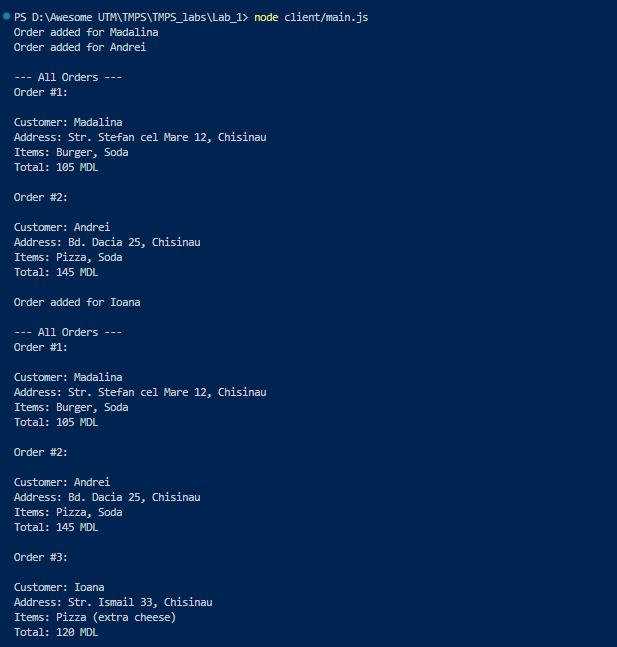
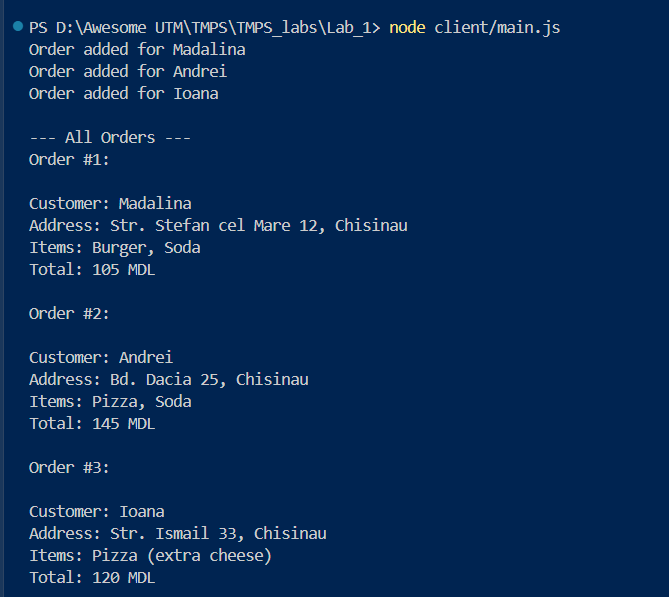
updated README.md and modules

Changed region(s): [[0.0, 0.0, 0.8314, 1.0]]

diff --git a/Lab_1/client/main.js b/Lab_1/client/main.js
@@ -2,15 +2,10 @@ import FoodFactory from "../factory/foodFactory.js";
 import OrderBuilder from "../builder/orderBuilder.js";
 import OrderManager from "../domain/orderManager.js";
 
-// Using Factory Method Pattern
-// Create food items without directly instantiating them with new.
-// This centralizes creation logic and makes it easier to extend.
 const burger = FoodFactory.createFood("burger");
 const soda = FoodFactory.createFood("soda");
 const pizza = FoodFactory.createFood("pizza");
 
-// Using Builder Pattern
-// Construct complex Order objects step by step in a readable, flexible way.
 const order1 = new OrderBuilder()
   .setCustomer("Madalina")
   .setAddress("Str. Stefan cel Mare 12, Chisinau")
@@ -25,15 +20,9 @@ const order2 = new OrderBuilder()
   .addItem(soda)
   .build();
 
-// Using Singleton Pattern
-// The same OrderManager instance is used across the app.
-// It stores and manages all orders globally.
 OrderManager.addOrder(order1);
 OrderManager.addOrder(order2);
-OrderManager.listOrders();
 
-// Using Prototype Pattern (optional demonstration)
-// Clone a predefined food item and modify it slightly
 const clonedPizza = pizza.clone();
 clonedPizza.name = "Pizza (extra cheese)";
 const customOrder = new OrderBuilder()

diff --git a/Lab_1/builder/orderBuilder.js b/Lab_1/builder/orderBuilder.js
@@ -1,4 +1,3 @@
-// The Order class represents a final, ready-to-deliver order object.
 class Order {
   constructor() {
     this.items = [];
@@ -20,10 +19,6 @@ Total: ${this.getTotal()} MDL
   }
 }
 
-// ✅ Builder Pattern:
-// The OrderBuilder class separates the construction of a complex object (Order)
-// from its representation. It lets us create different configurations of Orders
-// step-by-step, without needing a long constructor with many parameters.
 export default class OrderBuilder {
   constructor() {
     this.order = new Order();
@@ -31,7 +26,7 @@ export default class OrderBuilder {
 
   setCustomer(name) {
     this.order.customerName = name;
-    return this; // allows method chaining
+    return this;
   }
 
   setAddress(address) {
@@ -44,7 +39,6 @@ export default class OrderBuilder {
     return this;
   }
 
-  // Final step: returns the fully built Order object
   build() {
     return this.order;
   }

diff --git a/Lab_1/domain/orderManager.js b/Lab_1/domain/orderManager.js
@@ -1,16 +1,11 @@
-// Singleton Pattern:
-// The OrderManager class ensures only ONE instance exists throughout the app.
-// It manages all created orders globally.
 class OrderManager {
   constructor() {
-    // If an instance already exists, return it (Singleton enforcement)
     if (OrderManager.instance) {
       return OrderManager.instance;
     }
 
     this.orders = [];
 
-    // Store the single instance for future reference
     OrderManager.instance = this;
   }
 

diff --git a/Lab_1/models/foodItem.js b/Lab_1/models/foodItem.js
@@ -1,12 +1,9 @@
-// The FoodItem class represents a basic product in our system (a meal, drink, etc.)
 export default class FoodItem {
   constructor(name, price) {
     this.name = name;
     this.price = price;
   }
-
-  // Prototype Pattern (optional):
-  // Allows cloning an existing FoodItem to create a new one with the same properties.
+  
   clone() {
     return new FoodItem(this.name, this.price);
   }

diff --git a/Lab_1/factory/foodFactory.js b/Lab_1/factory/foodFactory.js
@@ -1,8 +1,5 @@
 import FoodItem from "../models/foodItem.js";
 
-// Factory Method Pattern:
-// This class encapsulates the logic of object creation for different FoodItem types.
-// Instead of calling `new FoodItem()` everywhere, we centralize creation here.
 export default class FoodFactory {
   static createFood(type) {
     switch (type.toLowerCase()) {

diff --git a/Lab_1/README.md b/Lab_1/README.md
@@ -14,16 +14,30 @@
 
 ## Theoretical Considerations
 
-1. Singleton Pattern - provides that only one instance of a class exists at any time. Also provides a single point of access to it. It has a private constructor. It has a static encapsualted instance. For a multithreaded environment, the getInstance() method should be ensured to be thread-safe. If the object has already been instantiated from the class, the existing instance of the obejct will be returned back. An example use case of the Singleton Pattern would be when we would want to create a single instance of a database that we would later use.
+In software engineering, the creational design patterns are the general solutions that deal with object creation, trying to create objects in a manner suitable to the situation. The basic form of object creation could result in design problems or added complexity to the design. Creational design patterns solve this problem by optimizing, hiding or controlling the object creation.
 
-2. Factory Method Pattern - creates an instance out of several derived classes.
+Some examples of this kind of design patterns are:
 
-3. Abstract Factory Pattern - 
+1. **Singleton Pattern** - provides that only one instance of a class exists at any time. Also provides a single point of access to it. It has a private constructor. It has a static encapsualted instance. For a multithreaded environment, the getInstance() method should be ensured to be thread-safe. If the object has already been instantiated from the class, the existing instance of the obejct will be returned back. An example use case of the Singleton Pattern would be when we would want to create a single instance of a database that we would later use.
 
-4. Builder Method Pattern - allows the creation of complex objects on a step-by-step process. Separates object constructon from its representation so that the same construction process could create different representations.
+2. **Factory Method Pattern** - creates an instance out of several derived classes.
+
+3. **Abstract Factory Pattern** - provides an interface for creating families of related or dependent objects without specifying their concrete classes. It ensures that products created by the factory are compatible with each other.
+
+4. **Builder Pattern** - allows the creation of complex objects on a step-by-step process. Separates object constructon from its representation so that the same construction process could create different representations.
+
+5. **Prototype Pattern** - creates new objects by copying or cloning existing ones, allowing efficient creation of objects with similar properties without starting from scratch.
+
+6. **Object Pooling Pattern** - manages a set of reusable objects to avoid costly creation and destruction. Objects are checked out from the pool when needed and returned after use.
 
 ## Used Design Patterns
 
+The domain area implemented for this project is a food delivery application. The following creational design patterns have been implemented in order to optimize, hide, and control the object creation:
+* Singleton Pattern
+* Factory Method Pattern 
+* Builder Pathern
+
+Below, in the next section, a more detailed description of how each creational design pattern was implemented in the food delivert application is provided.
 
 ## Implementation
 
@@ -32,6 +46,7 @@ Each pattern plays a specific role in how the app creates and manages objects.
 
 1. Singleton Pattern
 Used in the OrderManager class to ensure only one global instance manages all orders.
+OrderManager.instance is a static property of the class (attached to the class itself, not each object). If an instance already exists, it returns the existing instance instead of creating a new one. If no instance exists yet, it initializes this.orders and saves the current instance to OrderManager.instance:
 ```js
 export default class OrderManager {
   constructor() {
@@ -45,6 +60,7 @@ We only need one order manager to handle all placed orders consistently througho
 
 2. Factory Method Pattern
 Used in the FoodFactory to create food items dynamically based on type.
+This class encapsulates the logic of object creation for different FoodItem types. Instead of calling `new FoodItem()` everywhere, we centralize creation here.
 ```js
 export default class FoodFactory {
   static createFood(type, name, price) {
@@ -58,6 +74,7 @@ It centralizes and simplifies the creation logic for different food types.
 
 3. Builder Pattern
 Used in OrderBuilder to construct complex Order objects step-by-step.
+The OrderBuilder class separates the construction of a complex object (Order) from its representation. It lets us create different configurations of Orders step-by-step, without needing a long constructor with many parameters.
 ```js
 class OrderBuilder {
   constructor() { this.items = []; }
@@ -82,4 +99,4 @@ These patterns ensure flexible, maintainable, and scalable object creation withi
 
 ## Conclusions / Screenshots / Results
 
-In conclusion,
+In conclusion, this project has successfully demonstrated the practical application of creational design patterns within a Food Delivery Application. By using the Singleton Pattern, the system maintains a single, consistent OrderManager instance that oversees all orders. The Factory Method Pattern simplifies and centralizes the creation of various food items, making it easy to extend the menu with new products. The Builder Pattern provides a flexible way to construct complex orders step-by-step, allowing customization of customer details and multiple items. Together, these patterns improve the flexibility, maintainability, and scalability of the application, ensuring that object creation is controlled, efficient, and easy to manage. The terminal output and screenshots confirm that the application correctly creates, manages, and displays orders, reflecting the proper implementation of these design patterns.
